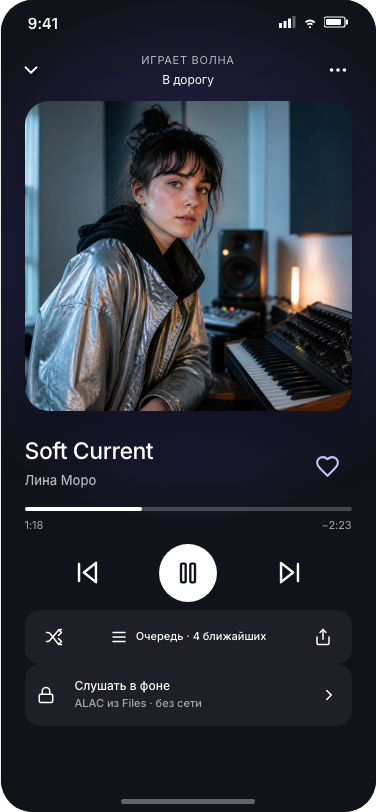
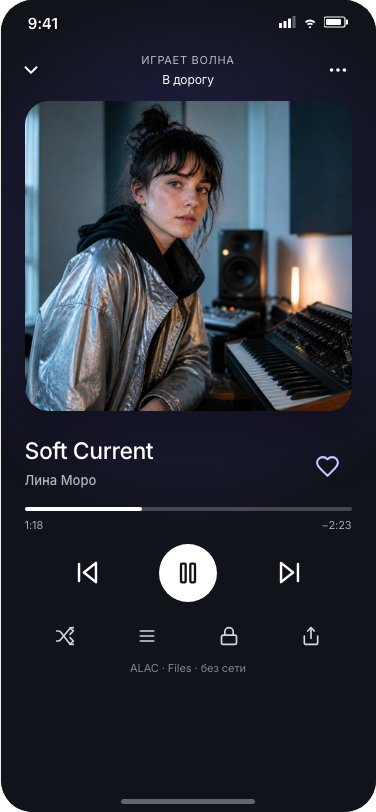
polish(volna): simplify player secondary controls

diff --git a/platform/concepts/volna/screens/player.html b/platform/concepts/volna/screens/player.html
@@ -5,8 +5,8 @@
     <section class="vl-now"><div><h1>Soft Current</h1><button class="tap" data-go="artist">Лина Моро</button></div><button class="vl-save-track" data-primary data-toast="Трек сохранён" aria-label="Сохранить трек"><svg><use href="#i-heart"/></svg><span class="vl-sr">Сохранить трек</span></button></section>
     <div class="vl-timeline"><i><b></b></i><div><span>1:18</span><span>−2:23</span></div></div>
     <div class="vl-transport"><button class="tap" data-toast="Предыдущий трек" aria-label="Предыдущий трек"><svg><use href="#i-skip-back"/></svg></button><button class="vl-pause tap" data-toast="Пауза" aria-label="Пауза"><svg><use href="#i-pause"/></svg></button><button class="tap" data-toast="Следующий трек" aria-label="Следующий трек"><svg><use href="#i-skip-forward"/></svg></button></div>
-    <div class="vl-player-tools"><button class="tap" data-toast="Поток перестроен" aria-label="Перемешать"><svg><use href="#i-shuffle"/></svg></button><button data-go="queue"><svg><use href="#i-menu"/></svg><span>Очередь · 4 ближайших</span></button><button class="tap" data-toast="Открыт Share Sheet" aria-label="Поделиться"><svg><use href="#i-share"/></svg></button></div>
-    <button class="vl-background" data-activate="audio|background"><svg><use href="#i-lock"/></svg><span><strong>Слушать в фоне</strong><small>ALAC из Files · без сети</small></span><svg><use href="#i-chevron-right"/></svg></button>
+    <div class="vl-player-tools"><button class="tap" data-toast="Поток перестроен" aria-label="Перемешать"><svg><use href="#i-shuffle"/></svg></button><button data-go="queue" aria-label="Очередь, 4 ближайших трека"><svg><use href="#i-menu"/></svg></button><button data-activate="audio|background" aria-label="Слушать в фоне"><svg><use href="#i-lock"/></svg></button><button class="tap" data-toast="Открыт Share Sheet" aria-label="Поделиться"><svg><use href="#i-share"/></svg></button></div>
+    <p class="vl-player-source">ALAC · Files · без сети</p>
     <div class="perm-hidden vl-player-denied" data-show-denied="audio">Фоновый режим неактивен — поток играет, пока приложение открыто.</div>
   </div>
   <div class="home-ind" aria-hidden="true"></div>

diff --git a/platform/concepts/volna/styles.css b/platform/concepts/volna/styles.css
@@ -122,16 +122,11 @@
 .vl-transport svg{height:29px;width:29px}
 .vl-pause{background-color:#fff!important;border-radius:50%;color:#11131b!important;height:58px!important;width:58px!important}
 .vl-pause svg{height:28px;width:28px}
-.vl-player-tools{align-items:center;background-color:rgba(255,255,255,.055);border-radius:15px;display:grid;grid-template-columns:50px minmax(0,1fr) 50px;margin-top:8px;padding:0 4px}
-.vl-player-tools>button{align-items:center;display:flex;justify-content:center;min-height:54px}
-.vl-player-tools>button:nth-child(2){font-size:11px;gap:8px;white-space:nowrap}
-.vl-player-tools svg{height:18px;width:18px}
-.vl-background{align-items:center;background-color:rgba(255,255,255,.055)!important;border-radius:15px;display:grid!important;gap:10px;grid-template-columns:28px minmax(0,1fr) 20px;margin-top:10px;min-height:62px;padding:0 12px!important;width:100%}
-.vl-background>span{display:flex;flex-direction:column}
-.vl-background strong{font-size:12px;line-height:16px}
-.vl-background small{color:#a8a9b5;font-size:11px;line-height:15px;margin-top:2px}
-.vl-background>svg{height:18px;width:18px}
-.vl-player-denied{background-color:rgba(255,255,255,.09);border-radius:10px;color:#ffcfaa;font-size:11px;line-height:16px;padding:9px}
+.vl-player-tools{align-items:center;display:grid;grid-template-columns:repeat(4,1fr);margin:9px 0 0}
+.vl-player-tools>button{align-items:center;color:#d5d5df;display:flex;justify-content:center;min-height:50px;position:relative}
+.vl-player-tools svg{height:20px;width:20px}
+.vl-player-source{color:#858692;font-size:11px;line-height:15px;margin:0;text-align:center}
+.vl-player-denied{color:#ffcfaa;font-size:11px;line-height:16px;margin-top:8px;text-align:center}
 .vl-queue{background-color:#f7f7f9}
 .vl-sheet-head{align-items:center;background-color:#fff;display:grid;grid-template-columns:70px minmax(0,1fr) 70px;height:calc(var(--safe-top) + 58px);padding:var(--safe-top) 12px 0}
 .vl-sheet-head>button{color:var(--vl-accent);font-size:13px;min-height:44px}
